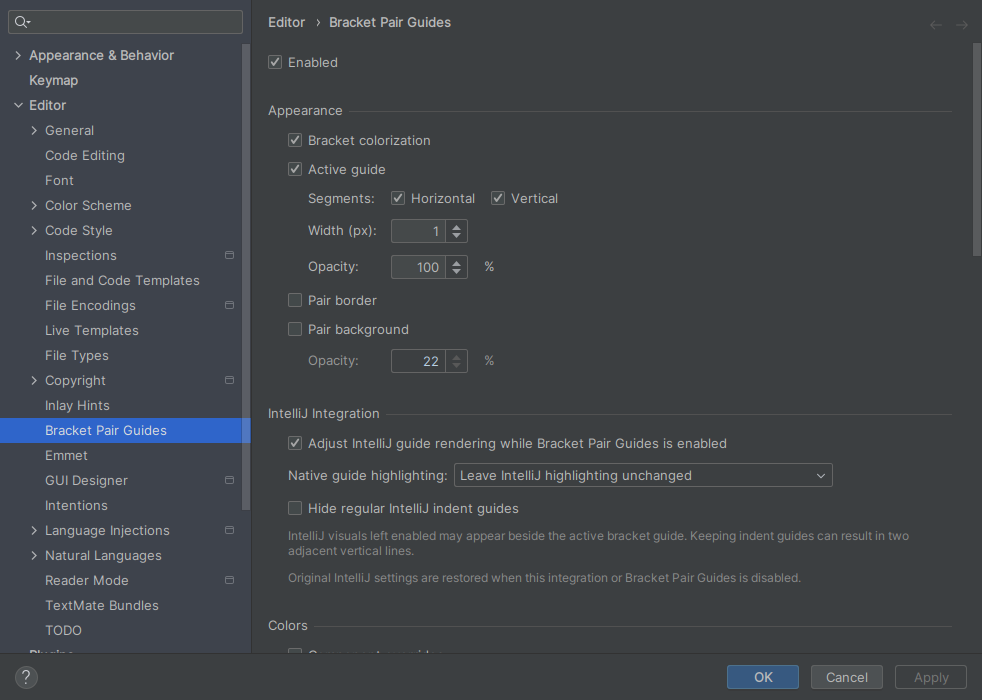
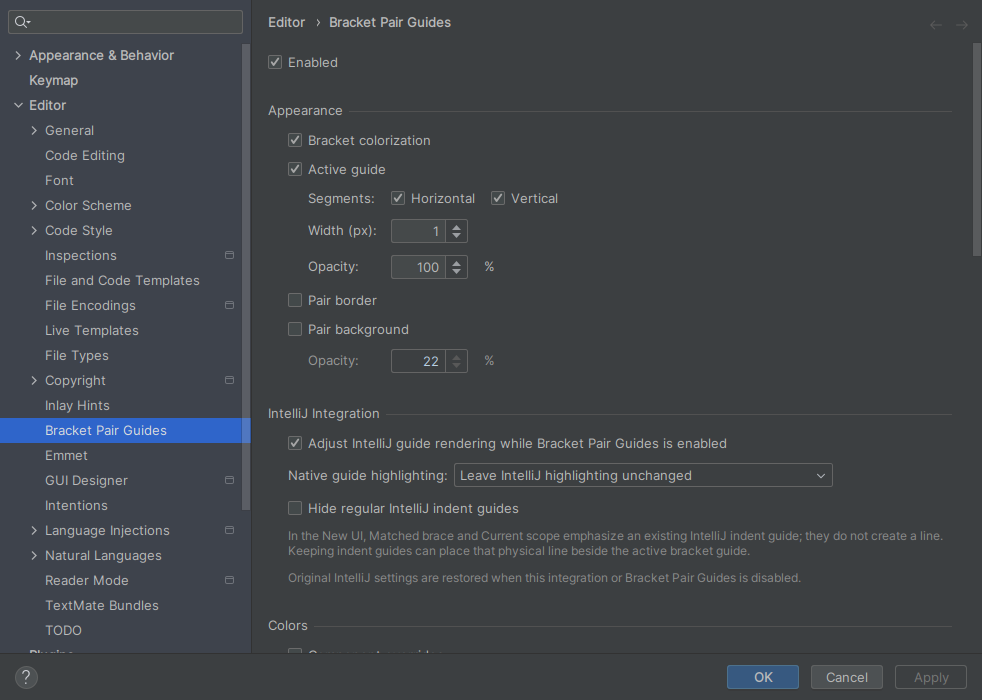
Document verified native guide visuals

Changed region(s): [[0.2749, 0.75, 0.947, 0.81]]

diff --git a/docs/guide_configuration.md b/docs/guide_configuration.md
@@ -39,12 +39,16 @@ Integration** group. The three controls work together as follows:
 | Native guide highlighting | Hide matched-brace and Current scope highlighting | Controls whether IntelliJ can emphasize an existing native indent guide |
 | Hide regular IntelliJ indent guides | Off | Removes the physical native indent-guide lines when enabled |
 
+![Default IntelliJ Integration controls in Bracket Pair Guides settings](images/intellij-integration-settings.png)
+
 **Matched brace** and **Current scope** are IntelliJ checkboxes under
 **Settings | Editor | General | Highlight on Caret Movement**. **Current scope**
 is not a separate vertical-line option. In the New UI, both settings can change
 the color or prominence of an existing indent guide. The physical line itself
 is controlled by **Show indent guides** under
 **Settings | Editor | General | Appearance**.
+
+![IntelliJ Highlight on Caret Movement settings showing Matched brace and Current scope](images/intellij-highlight-on-caret-movement-settings.png)
 
 The default keeps useful regular IntelliJ indent guides. In the New UI, a dim
 native indent guide can therefore remain beside the plugin's active vertical
@@ -70,9 +74,22 @@ native brace highlighting can instead paint a gutter-side marker even when
 regular indent guides are hidden. Use the default highlighting mode, not only
 the indent-guide option, when native emphasis should be removed in both UIs.
 
-Compare the resulting New UI editor states at the same caret position:
+The plugin exposes the three native-highlighting combinations directly:
 
-| IntelliJ emphasis enabled | Default suppression | Plugin guide only |
+![Native guide highlighting mode choices in Bracket Pair Guides settings](images/native-highlight-modes-popup.png)
+
+Compare the resulting New UI editor states at the same caret position. The
+first case deliberately keeps **Current scope** off and turns only **Matched
+brace** on, proving that Current scope is not required for the adjacent native
+emphasis:
+
+| Matched-brace emphasis, Current scope off | Default suppression | Plugin guide only |
+|---|---|---|
+| ![Enlarged adjacent emphasized IntelliJ guide and plugin guide](images/native-guide-overlap-detail.png) | ![Enlarged dim regular IntelliJ guide beside the plugin guide](images/native-guide-default-suppressed-detail.png) | ![Enlarged plugin guide with the regular IntelliJ guide hidden](images/plugin-guide-only-detail.png) |
+
+The corresponding full editor captures are:
+
+| Matched-brace emphasis, Current scope off | Default suppression | Plugin guide only |
 |---|---|---|
 | ![Existing IntelliJ indent guide emphasized beside the plugin guide](images/native-guide-overlap.png) | ![Native emphasis suppressed while the regular indent guide remains](images/native-guide-default-suppressed.png) | ![Native emphasis and the regular indent guide hidden](images/plugin-guide-only.png) |
 
